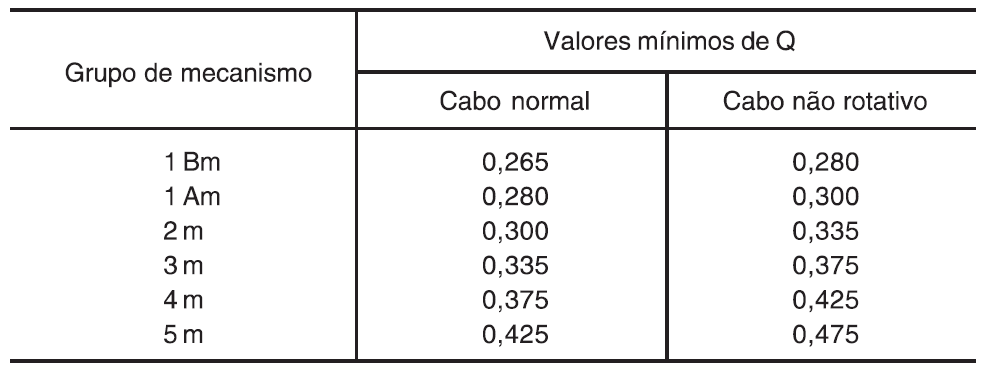
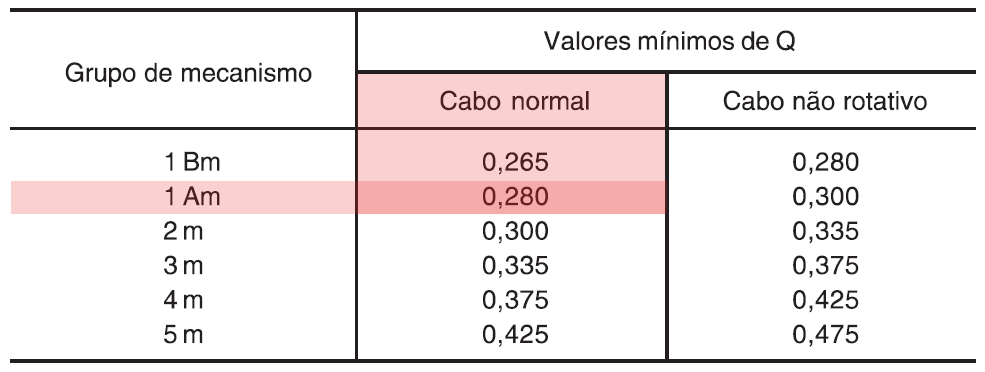
Update document layout and content in main.tex and related sections
- Adjusted page geometry settings in main.tex for improved layout, including changes to margins and header/footer inclusion.
- Updated the project requirements table in 01_dados_de_entrada.tex for clarity and relevance, renaming the caption and enhancing the data presentation.
- Refined calculations and formatting in the diameter of the cable section, ensuring consistent decimal notation and improved readability of equations.
- Added new rules in VSCode settings for better LaTeX linting and error checking, enhancing the development environment.

Changed region(s): [[0.0, 0.1774, 0.7005, 0.5914]]

diff --git a/content/sections/02_dados_do_projeto/sections/01_dados_de_entrada.tex b/content/sections/02_dados_do_projeto/sections/01_dados_de_entrada.tex
@@ -1,6 +1,8 @@
+Os requisitos principais do projeto estão resumidos na tabela abaixo:
+
 \begin{table}[H]
   \centering
-  \caption{Dados de entrada}
+  \caption{Requisitos do projeto}
   \label{tab:dados_de_entrada}
   \begin{tabularx}{\textwidth}{>{\centering\arraybackslash}X>{\centering\arraybackslash}X>{\centering\arraybackslash}X}
     \toprule
@@ -14,33 +16,60 @@
   \end{tabularx}
 \end{table}
 
-Dados gerais:
-\begin{itemize}[leftmargin=1.25cm]
-  \item Equipe número 11.
-  \item Grupo A.
-  \item Aplicação 1 - Serviços de montagem.
-\end{itemize}
+Os demais dados do projeto, obtidos com base no Grupo A, estão resumidos na tabela abaixo:
 
-Mecanismo:
-\begin{itemize}[leftmargin=1.25cm]
-  \item Classe de funcionamento: V1.
-  \item Estado de solicitação: II.
-  \item Grupo do mecanismo: 1AM.
-  \item Duração de utilização: 3200 horas.
-\end{itemize}
+\begin{table}[H]
+  \centering
+  \caption{Dados do projeto}
+  \label{tab:dados_do_projeto}
+  \begin{tabularx}{\textwidth}{>{\centering\arraybackslash}X>{\centering\arraybackslash}X>{\centering\arraybackslash}X}
+    \toprule
+    Parâmetro                       & Valor                                                                 \\
+    \midrule
+    Aplicação                       & 1 - Serviços de montagem                                              \\
+    Classe de funcionamento         & V2                                                                    \\
+    Estado de solicitação           & II - Solicitação com vento de serviço                                 \\
+    Grupo do mecanismo              & 1AM                                                                   \\
+    Duração de utilização           & 3200 h                                                                \\
+    Classe de utilização            & A                                                                     \\
+    Estado de carga                 & 1                                                                     \\
+    Grupo de classificação          & 2                                                                     \\
+    Flecha máxima                   & $L/900$                                                               \\
+    Tempo de operação por hora (ED) & 40\%                                                                  \\
+    Tempo de funcionamento diário   & 4 a 8 h                                                               \\
+    Frequência de partida           & 150 paradas e partidas por hora                                       \\
+    Velocidades                     & Baixa para mecanismo de elevação e média para mecanismo de translação \\
+    \bottomrule
+  \end{tabularx}
+\end{table}
 
-Estrutura:
-\begin{itemize}[leftmargin=1.25cm]
-  \item Classe de utilização: A.
-  \item Estado de carga: 1.
-  \item Grupo de classificação: 2.
-  \item Flecha máxima: $L/900$ $\si{\milli\meter}$.
-\end{itemize}
+% Dados gerais:
+% \begin{itemize}[leftmargin=1.25cm]
+%   \item Equipe número 11.
+%   \item Grupo A.
+%   \item Aplicação 1 - Serviços de montagem.
+% \end{itemize}
 
-Funcionamento e velocidades:
-\begin{itemize}[leftmargin=1.25cm]
-  \item Tempo de operação por hora (ED): \SI{40}{\percent}.
-  \item Tempo de funcionamento diário: 4 a 8 horas.
-  \item Frequência de partida: 150 paradas e partidas por hora.
-  \item Velocidades: baixa para mecanismo de elevação e alta para mecanismo de translação.
-\end{itemize}
+% Mecanismo:
+% \begin{itemize}[leftmargin=1.25cm]
+%   \item Classe de funcionamento: V1.
+%   \item Estado de solicitação: II.
+%   \item Grupo do mecanismo: 1AM.
+%   \item Duração de utilização: 3200 horas.
+% \end{itemize}
+
+% Estrutura:
+% \begin{itemize}[leftmargin=1.25cm]
+%   \item Classe de utilização: A.
+%   \item Estado de carga: 1.
+%   \item Grupo de classificação: 2.
+%   \item Flecha máxima: $L/900$ $\si{\milli\meter}$.
+% \end{itemize}
+
+% Funcionamento e velocidades:
+% \begin{itemize}[leftmargin=1.25cm]
+%   \item Tempo de operação por hora (ED): \SI{40}{\percent}.
+%   \item Tempo de funcionamento diário: 4 a 8 horas.
+%   \item Frequência de partida: 150 paradas e partidas por hora.
+%   \item Velocidades: baixa para mecanismo de elevação e alta para mecanismo de translação.
+% \end{itemize}

diff --git a/content/sections/03_sistema_de_elevacao/sections/04_diametro_do_cabo/main.tex b/content/sections/03_sistema_de_elevacao/sections/04_diametro_do_cabo/main.tex
@@ -24,12 +24,12 @@ O coeficiente Q foi obtido na tabela 27 da NBR 8400 \cite{nbr8400}:
   \label{fig:coeficiente_q}
 \end{figure}
 
-Para o grupo de mecanismo 1AM, o valor de $Q$ para cabo normal é $0{,}28$.
+Para o grupo de mecanismo 1AM, o valor de $Q$ para cabo normal é 0,28.
 
 Substituindo os valores na equação \eqref{eq:diametro_do_cabo}:
 
 \begin{align*}
-  d_c & = 0{,}28 \sqrt{2537{,}78}              \\
+  d_c & = {,}28 \sqrt{2537{,}78}             \\
   d_c & = \boxed{\SI{14{,}11}{\milli\meter}}
 \end{align*}
 
@@ -73,7 +73,7 @@ Onde:
 Substituindo os valores na equação \eqref{eq:fator_seguranca}:
 
 \begin{align*}
-  F_s & = \frac{12{,}5}{2537{,}78 \cdot 10^{-3}}               \\
+  F_s & = \frac{12{,}5}{2537{,}78 \cdot 10^{-3}}             \\
   F_s & = \boxed{4{,}93} \leq 6 \rightarrow \text{Reprovado}
 \end{align*}
 
@@ -82,7 +82,7 @@ O cabo adotado não atende aos requisitos de segurança; portanto, foi necessár
 Aplicando a nova carga de ruptura mínima na equação \eqref{eq:fator_seguranca}:
 
 \begin{align*}
-  F_s & = \frac{15{,}2}{2537{,}78 \cdot 10^{-3}}               \\
+  F_s & = \frac{15{,}2}{2537{,}78 \cdot 10^{-3}}             \\
   F_s & = \boxed{5{,}99} \leq 6 \rightarrow \text{Reprovado}
 \end{align*}
 
@@ -103,11 +103,11 @@ O cabo adotado atende aos requisitos de segurança.
   \label{tab:propriedades_cabo_adotado}
   \begin{tabularx}{\textwidth}{>{\centering\arraybackslash}X>{\centering\arraybackslash}X>{\centering\arraybackslash}X}
     \toprule
-    Parâmetro               & Símbolo           & Valor                         \\
+    Parâmetro               & Símbolo           & Valor                           \\
     \midrule
-    Diâmetro do cabo        & $d_c$             & \SI{19}{\milli\meter}         \\
+    Diâmetro do cabo        & $d_c$             & \SI{19}{\milli\meter}           \\
     Massa por metro do cabo & $m_{\text{cabo}}$ & \SI{1{,}359}{\kilo\gram/\meter} \\
-    Carga de ruptura mínima & $CRM$             & \SI{22}{\tonneforce}          \\
+    Carga de ruptura mínima & $CRM$             & \SI{22}{\tonneforce}            \\
     \bottomrule
   \end{tabularx}
 \end{table}

diff --git a/main.tex b/main.tex
@@ -11,11 +11,13 @@
 \geometry{
   a4paper,
   left=3cm,
-  right=2.5cm,
-  top=2.5cm,
-  bottom=2.5cm,
-  headheight=1.75cm,
-  headsep=0.85cm
+  right=2cm,
+  top=3cm,
+  includehead=true,
+  headheight=36pt,
+  headsep=0.75cm,
+  bottom=2cm,
+  includefoot=true
 }
 \usepackage{setspace}
 \onehalfspacing
@@ -85,8 +87,8 @@
   \fancyhead[R]{%
     \includegraphics[height=\cabecalhologoaltura,width=\cabecalhologolargura,keepaspectratio]{assets/fho.pdf}%
   }%
-  \fancyfoot[L]{Instituição: \instituicao}%
-  \fancyfoot[R]{Página: \thepage\ de \pageref{LastPage}}%
+  \fancyfoot[L]{\instituicao}%
+  \fancyfoot[R]{\thepage\ de \pageref{LastPage}}%
   \renewcommand{\headrulewidth}{0.4pt}%
   \renewcommand{\footrulewidth}{0.4pt}%
 }
